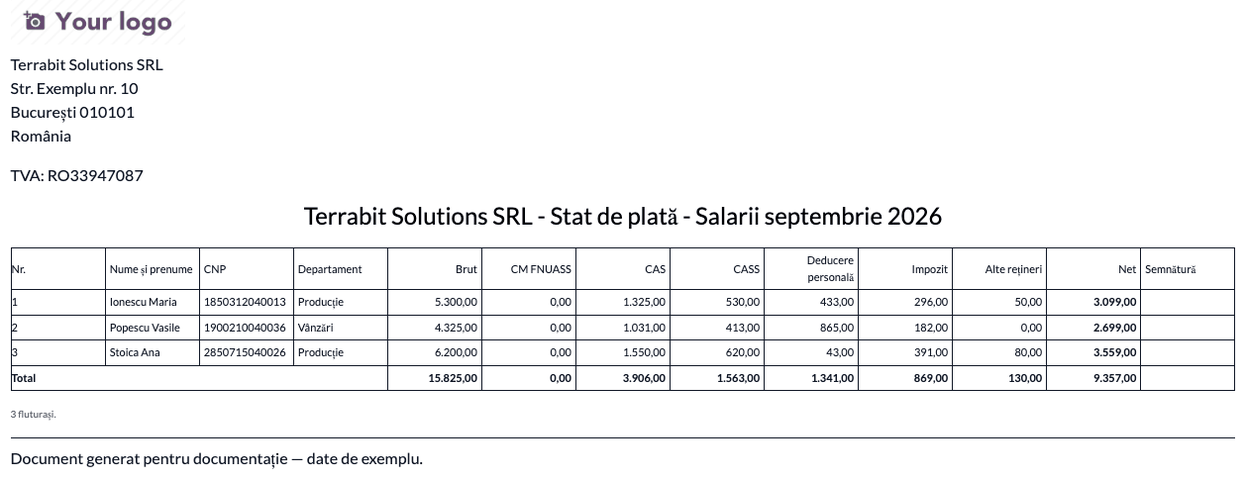
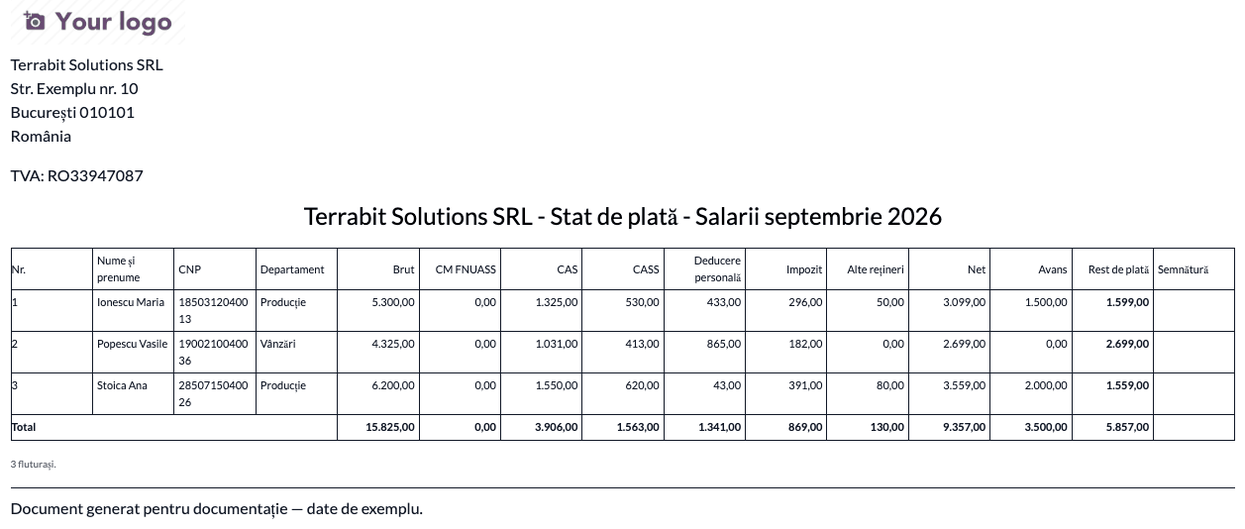
l10n_ro_payroll_statements, l10n_ro_payroll_advance: statul de plată cu Avans și Rest de plată
Fișele sincronizate cu l10n_ro_ent (19.0.1.1.1 / 19.0.1.0.3), capturile 02, 03, 05 refăcute.

diff --git a/l10n_ro_payroll_statements/FISA_CONSULTANT.md b/l10n_ro_payroll_statements/FISA_CONSULTANT.md
@@ -18,7 +18,7 @@ Utilizator salarizare (*Utilizator salarizare*, grupul de salarizare).
 
 ## 4. Conturi și date implicate
 
-Modulul nu face note contabile. Folosește liniile fluturașilor validați sau plătiți: brut, CAS, CASS, deducere personală, impozit, rețineri și net (restul de plată).
+Modulul nu face note contabile. Folosește liniile fluturașilor validați sau plătiți: brut, CAS, CASS, deducere personală, impozit, rețineri, net și, cu `l10n_ro_payroll_advance`, avansul lichidat pe fluturaș (regula `AVANS`), din care rezultă restul de plată.
 
 ## 5. Configurare inițială
 
@@ -36,9 +36,11 @@ aplicația *Stat de plată* (Salarizare) → *Raportare → Stat de plată (RO)*
 
 Apăsați **Tipărește**. Statul are o linie pe salariat (nume, CNP, departament), cu **brut, CAS, CASS, deducere personală, impozit, alte rețineri și net**, totaluri pe coloană și coloană de semnătură (necesară la plata în numerar; la plata pe card dovada plății e extrasul bancar). Concediul medical plătit din FNUASS are coloană proprie (*CM FNUASS*), în afara brutului. Concediul medical intră în CAS, CASS și impozit prin rândurile lui de contribuții.
 
+După *Net* urmează coloanele **Avans** (avansul de salarii lichidat pe fluturaș) și **Rest de plată** (net − avans): salariatul semnează pentru restul de plată. Coloanele se completează când este instalat `l10n_ro_payroll_advance`; fără el avansul este 0, iar restul de plată este egal cu netul. Statul de avansuri, plătit la jumătatea lunii, se tipărește din `l10n_ro_payroll_advance`: *Stat de plată → Fluturași de salariu → Avansuri de salarii*, lotul de avans → **Tipărește statul**.
+
 ![Statul de plată (PDF)](screenshots/02_pdf_stat_de_plata.png)
 
-**Verificați:** numărul de linii e cel al fluturașilor lotului; pe fiecare linie, brut + CM FNUASS − CAS − CASS − impozit − alte rețineri = net; totalul brut și totalul net coincid cu lotul.
+**Verificați:** numărul de linii e cel al fluturașilor lotului; pe fiecare linie, brut + CM FNUASS − CAS − CASS − impozit − alte rețineri = net și net − avans = rest de plată; totalul brut și totalul net coincid cu lotul, iar totalul avansului coincide cu lichidarea avansului din nota contabilă a fluturașilor (`Dr 421 = Cr 425`).
 
 ### Pasul 3 — Recapitulația pe reguli
 
@@ -46,7 +48,7 @@ Apăsați **Tipărește**. Statul are o linie pe salariat (nume, CNP, departamen
 
 ![Recapitulația pe reguli (PDF)](screenshots/03_pdf_recapitulatie.png)
 
-**Verificați:** totalul regulii *Brut* este brutul total al statului; CAS, CASS și impozit coincid cu sumele din nota contabilă a salariilor și din D112 (în recapitulație reținerile apar cu semnul minus: comparați valorile absolute).
+**Verificați:** totalul regulii *Brut* este brutul total al statului; CAS, CASS și impozit coincid cu sumele din nota contabilă a salariilor și din D112 (în recapitulație reținerile apar cu semnul minus: comparați valorile absolute). Regula *Lichidare avans* (`AVANS`) apare cu minus și are același total ca coloana *Avans* din stat.
 
 ### Pasul 4 — Sporuri și rețineri
 
@@ -70,14 +72,16 @@ Modulul nu generează note contabile și nu transmite date în D112: statul și 
 |---|---|
 | `l10n_ro_hr_payroll_enhancement` | fluturașii și regulile RO (CAS, CASS, impozit, concedii medicale, prime) |
 | `hr_payroll` | lotul de fluturași și categoriile de reguli |
+| `l10n_ro_payroll_advance` (opțional) | avansul lichidat pe fluturaș (regula `AVANS`), care completează coloanele *Avans* și *Rest de plată*; statul de avansuri |
 
-**Automat:** totalurile și coloanele. **Manual:** verificarea cu nota contabilă și cu D112; statul de avansuri lipsește (nu există avans pe fluturaș).
+**Automat:** totalurile și coloanele, inclusiv avansul și restul de plată. **Manual:** verificarea cu nota contabilă și cu D112; statul de avansuri se tipărește din `l10n_ro_payroll_advance`.
 
 ## 8. Verificări pentru consultant
 
 - [ ] Numărul de linii al statului coincide cu numărul fluturașilor lotului.
 - [ ] Brut, CAS, CASS, impozit și net din stat coincid cu totalurile lotului.
 - [ ] Recapitulația are aceleași totaluri ca statul și ca nota contabilă a salariilor.
+- [ ] Pe fiecare linie, rest de plată = net − avans; fără modulul de avans, coloana *Avans* este 0 și restul de plată este netul.
 - [ ] Filtrul pe departament lasă doar salariații departamentului ales.
 - [ ] Fluturașii în ciornă apar doar cu bifa *Include fluturașii în ciornă*.
 - [ ] Exportul XLSX are aceleași sume ca PDF-ul.
@@ -93,7 +97,7 @@ Modulul nu generează note contabile și nu transmite date în D112: statul și 
 Generate automat din `tests/test_screenshots.py` (mixinul `ScreenshotCase` din `l10n_ro_doc_screenshots`), în RO, pe planul RO:
 
 - `01_fereastra_stat.png`: fereastra raportului;
-- `02_pdf_stat_de_plata.png`: statul de plată (PDF);
+- `02_pdf_stat_de_plata.png`: statul de plată (PDF), cu avans la doi salariați și fără avans la al treilea;
 - `03_pdf_recapitulatie.png`: recapitulația pe reguli (PDF);
 - `04_pdf_sporuri_retineri.png`: centralizatorul de sporuri și rețineri (PDF);
 - `05_xlsx_stat_de_plata.png`: statul exportat în XLSX.
@@ -102,6 +106,6 @@ Regenerare: `odoo-bin -c <conf> -d <baza_cu_ro_RO> -i l10n_ro_payroll_statements
 
 ## 11. Observații pentru manual
 
-- Statul de avansuri (avans chenzinal) și filtrul pe analitic lipsesc: salarizarea Odoo nu are avans pe fluturaș și nici analitic pe fluturaș.
+- Statul de avansuri (avans chenzinal) nu este în acest modul: se tipărește din `l10n_ro_payroll_advance`, care lichidează și avansul pe fluturaș. Filtrul pe analitic lipsește: fluturașii nu au analitic.
 - Departamentul și punctul de lucru sunt cele din versiunea contractului în luna fluturașului.
 - În exportul XLSX sumele se afișează după setările regionale ale Excel-ului (în capturi apar cu format en-US).

diff --git a/l10n_ro_payroll_advance/index.md b/l10n_ro_payroll_advance/index.md
@@ -24,7 +24,7 @@ Firmele care plătesc salariul în două tranșe dau salariaților un avans la j
 - **Anulare**: butonul *Anulează* al unui lot *Plătit* șterge, anulează sau stornează plățile (bancă) sau nota directă (numerar), după blocarea perioadei și audit trail (`_unlink_or_reverse`). Anularea este blocată dacă o plată este reconciliată cu un extras bancar (se desface mai întâi reconcilierea), dacă lotul e lichidat pe un fluturaș validat (se anulează mai întâi fluturașul) sau dacă o ciornă de fluturaș deduce deja avansul.
 - **Protecții pe fluturaș**: acțiunea *Setează ca ciornă* este blocată pe un fluturaș validat care a lichidat un avans (se folosește *Anulează*, apoi *Setează ca ciornă* pe formular); fluturașul afișează o avertizare când este activă opțiunea *Batch Account Move Lines* (*Setări → Stat de plată*), care scoate salariatul de pe liniile notei și împiedică reconcilierea automată pe 425 (opțiunea trebuie dezactivată).
 - **Configurare**: procentul implicit în *Setări → Stat de plată → Avans de salarii*; conturile 425 și 421 se completează automat pe regulă la planul de conturi RO (pe alte planuri se completează manual pe regulă); jurnalul de plată are nevoie de cont implicit (5121 sau 5311). Gestionarea avansurilor cere grupul *Salarizare / Administrator*. Modulul nu impune data sau mărimea avansului (ține de contractul de muncă / regulamentul intern, Codul muncii art. 166).
-- **Limite**: butonul nativ *Plătește* al fluturașului poate da eroarea „Contul de credit din regula salariului NET nu este reconciliabil” în configurarea RO (provine din `hr_payroll_account`, nu din acest modul; verificați în baza dumneavoastră); nu există fișier bancar pentru avans (fișierul de plată a salariilor lucrează pe fluturași și conține netul întreg); recuperarea automată a diferenței din salariul lunii următoare nu este implementată; regula *Lichidare avans* este legată doar de structura salarială RO, deci pe alte structuri avansul rămâne *Nelichidat*; statul de plată semnat din `l10n_ro_payroll_statements` rămâne fără coloană de avans.
+- **Limite**: butonul nativ *Plătește* al fluturașului poate da eroarea „Contul de credit din regula salariului NET nu este reconciliabil” în configurarea RO (provine din `hr_payroll_account`, nu din acest modul; verificați în baza dumneavoastră); nu există fișier bancar pentru avans (fișierul de plată a salariilor lucrează pe fluturași și conține netul întreg); recuperarea automată a diferenței din salariul lunii următoare nu este implementată; regula *Lichidare avans* este legată doar de structura salarială RO, deci pe alte structuri avansul rămâne *Nelichidat*; statul de plată semnat se tipărește din `l10n_ro_payroll_statements`, care de la 19.0.1.1.0 are coloanele *Avans* și *Rest de plată*.
 - **Fișa de consultant** are 10 capturi de ecran (setarea procentului, lotul în ciornă și plătit, nota plății, statul de avansuri, fluturașul cu lichidarea, notele fluturașului, avansul peste net, lotul lichidat).
 
 #### 3. Dependențe

diff --git a/l10n_ro_payroll_advance/FISA_CONSULTANT.md b/l10n_ro_payroll_advance/FISA_CONSULTANT.md
@@ -107,7 +107,7 @@ Avansul nu intră în D112 și nu modifică baza de calcul a contribuțiilor. Av
 |---|---|
 | `l10n_ro_hr_payroll_enhancement` | fluturașii și regulile RO |
 | `l10n_ro_hr_payroll_account_enhancement` | mecanismul de conturi pe reguli (421 și contul de personal pe linie) |
-| `l10n_ro_payroll_statements` | statul de plată (doar NET, fără avans); statul de avansuri este un raport separat, al acestui modul |
+| `l10n_ro_payroll_statements` | statul de plată, cu coloanele *Avans* (avansul lichidat pe fluturaș) și *Rest de plată* (net − avans); statul de avansuri este un raport separat, al acestui modul |
 | `l10n_ro_payroll_bank_export` | fișier bancar pe fluturași (netul întreg; fără avans în v1) |
 
 **Automat:** sumele implicite, nota plății, lichidarea, plafonarea la net, avertizările. **Automat și reconcilierea 425** cu plata avansului, la postarea notei fluturașului. **Manual:** reținerea diferenței rămase pe 425 în luna următoare.
@@ -167,7 +167,7 @@ Capturile sunt în `static/description/`, în ordinea fluxului:
 - Butonul *Plătește* al fluturașului cere ca regula NET să aibă un cont de credit reconciliabil; în baza de test cu configurarea RO dă eroarea „Contul de credit din regula salariului NET nu este reconciliabil” (în engleză: „The credit account on the NET salary rule is not reconciliable”) (de verificat în baza clientului). Fără butonul, plata restului se înregistrează din liniile 421 ale notei fluturașului. Plata trece prin contul de plăți în curs până la reconcilierea extrasului.
 - Pentru mai multe loturi pe aceeași lună, avansurile se lichidează împreună pe fluturaș, în ordinea creării.
 - Recuperarea automată din luna următoare și fișierul bancar al avansului sunt în ROADMAP.
-- Statul de plată semnat din `l10n_ro_payroll_statements` (`wizard/l10n_ro_payroll_statement.py`) are doar coloana NET, fără avans și fără rest de plată, deși plata salariului se dovedește prin semnarea statelor (Codul muncii, art. 168 alin. 1): de completat într-un PR separat, nu în acest modul. Până atunci, la plata în numerar se semnează statul de avansuri la avans și statul de plată la lichidare; la plata prin bancă dovada avansului este extrasul.
+- Statul de plată semnat din `l10n_ro_payroll_statements` (de la 19.0.1.1.0) are, după *Net*, coloanele *Avans* (avansul lichidat pe fluturaș) și *Rest de plată* (net − avans). La plata în numerar se semnează statul de avansuri la avans și statul de plată la lichidare; la plata prin bancă dovada avansului este extrasul.
 - Regula *Lichidare avans* este legată doar de structura `hr_payroll_structure_ro_employee_salary`: pe alte structuri avansul rămâne *Nelichidat*.
 - Dacă o ciornă de fluturaș are deja linia de lichidare, lotul nu se poate anula până la recalcularea sau ștergerea ei.
 - Un al doilea fluturaș al aceleiași luni (corecție) nu scade din nou avansul deja lichidat pe un fluturaș validat.
